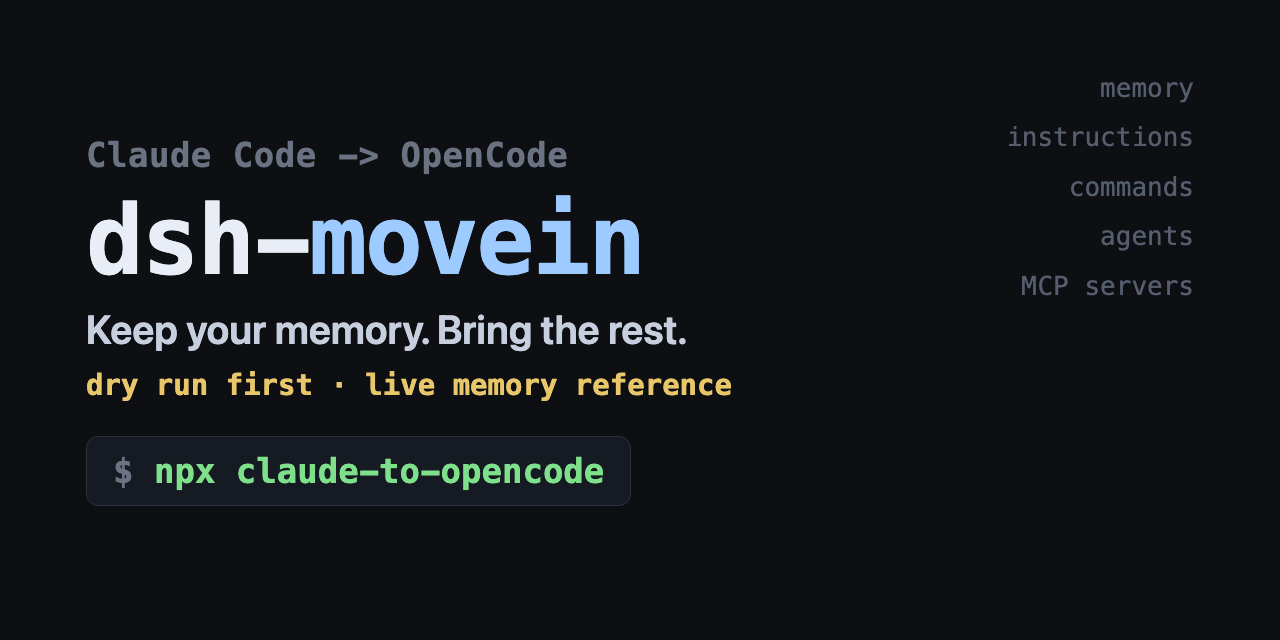
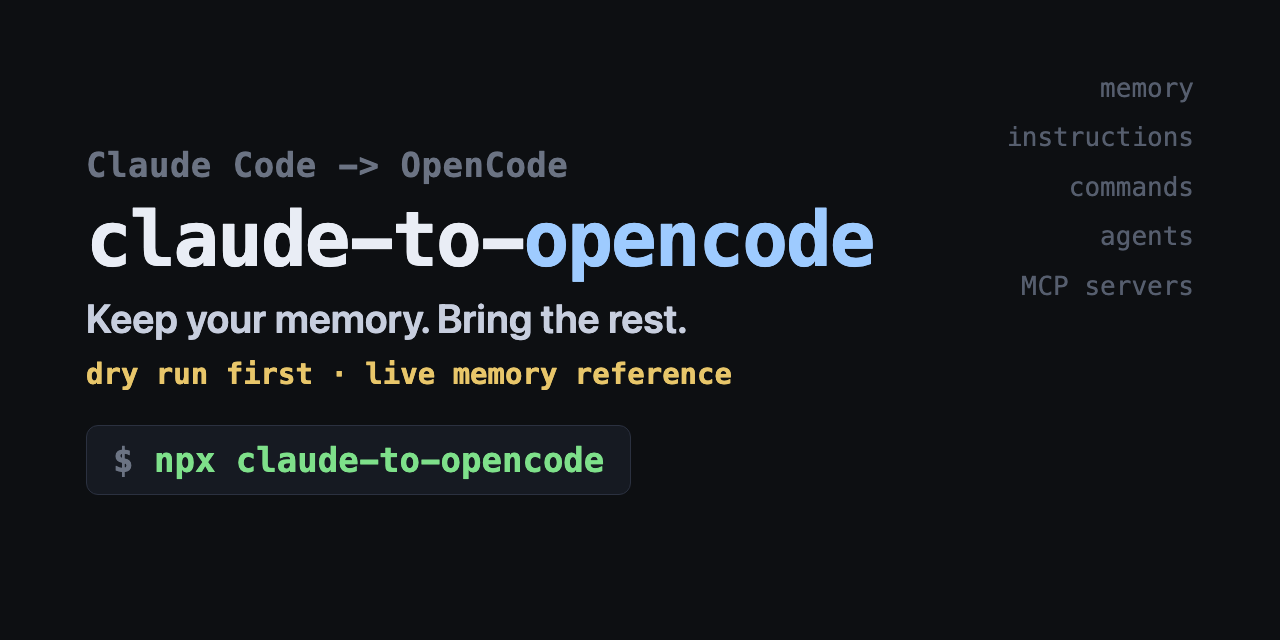
Make claude-to-opencode the market entry (#18)

diff --git a/demo/social.html b/demo/social.html
@@ -5,7 +5,7 @@
      lives inside the central 1108px safe zone (86px margins each side) */
   #safe{position:absolute;left:86px;top:0;width:1108px;height:640px;display:flex;flex-direction:column;justify-content:center}
   .from{font:600 34px ui-monospace,Menlo,monospace;color:#6b7383;letter-spacing:.5px}
-  .name{font:800 96px ui-monospace,Menlo,monospace;color:#e9edf5;margin:10px 0 6px;letter-spacing:-2px}
+  .name{font:800 76px ui-monospace,Menlo,monospace;color:#e9edf5;margin:10px 0 8px;letter-spacing:-2px}
   .name .accent{color:#9ecbff}
   .claim{font:600 40px ui-sans-serif,system-ui;color:#c7cede;line-height:1.3;max-width:760px}
   .proof{font:600 29px ui-monospace,Menlo,monospace;color:#e8c66a;margin-top:13px}
@@ -16,7 +16,7 @@
 <body>
 <div id="safe">
   <div class="from">Claude Code -> OpenCode</div>
-  <div class="name">dsh-<span class="accent">movein</span></div>
+  <div class="name">claude-to-<span class="accent">opencode</span></div>
   <div class="claim">Keep your memory. Bring the rest.</div>
   <div class="proof">dry run first · live memory reference</div>
   <div><span class="cmd"><span class="dim">$</span> npx claude-to-opencode</span></div>

diff --git a/README.md b/README.md
@@ -1,34 +1,34 @@
-# dsh-movein
+# claude-to-opencode
 
 [中文](./README.zh.md)
 
 <p align="center">
-  <a href="https://www.npmjs.com/package/dsh-movein"><img alt="npm" src="https://img.shields.io/npm/v/dsh-movein?style=flat-square&color=4b6fff"></a>
-  <a href="https://github.com/sjh9714/dsh-movein/actions/workflows/ci.yml"><img alt="CI" src="https://github.com/sjh9714/dsh-movein/actions/workflows/ci.yml/badge.svg"></a>
+  <a href="https://www.npmjs.com/package/claude-to-opencode"><img alt="npm" src="https://img.shields.io/npm/v/claude-to-opencode?style=flat-square&color=4b6fff"></a>
+  <a href="https://github.com/sjh9714/claude-to-opencode/actions/workflows/ci.yml"><img alt="CI" src="https://github.com/sjh9714/claude-to-opencode/actions/workflows/ci.yml/badge.svg"></a>
   <a href="LICENSE"><img alt="MIT" src="https://img.shields.io/badge/license-MIT-2EA44F?style=flat-square"></a>
-  <a href="https://www.npmjs.com/package/dsh-movein"><img alt="downloads" src="https://img.shields.io/npm/dm/dsh-movein?style=flat-square&color=8250df"></a>
+  <a href="https://www.npmjs.com/package/claude-to-opencode"><img alt="downloads" src="https://img.shields.io/npm/dm/claude-to-opencode?style=flat-square&color=8250df"></a>
 </p>
 
 Leave Claude Code without rebuilding your setup.
 
 One command previews and moves auto memory, instructions, unconditional rules, commands, agents, and MCP servers into OpenCode. The same CLI can move Claude Code, Codex, or OpenCode assets into [DeepSeek Harness (DSH)](https://github.com/deepseek-ai/deepseek-harness).
 
-![Claude Code setup moving safely into OpenCode](https://raw.githubusercontent.com/sjh9714/dsh-movein/main/docs/demo.gif)
+![Claude Code setup moving safely into OpenCode](https://raw.githubusercontent.com/sjh9714/claude-to-opencode/main/docs/demo.gif)
 
 The animation recreates the real CLI flow. The generated files were also loaded with OpenCode `1.18.21` through `debug config`, `debug skill`, and `debug agent`.
 
 ## Claude Code to OpenCode
 
 ```sh
-npx dsh-movein --from claude --to opencode
-npx dsh-movein --from claude --to opencode --apply
-```
-
-The shorter search-friendly entry point runs the same code.
-
-```sh
 npx claude-to-opencode
 npx claude-to-opencode --apply
+```
+
+The full multi-origin CLI runs the same route.
+
+```sh
+npx dsh-movein --from claude --to opencode
+npx dsh-movein --from claude --to opencode --apply
 ```
 
 The first command is only a preview.
@@ -170,7 +170,7 @@ Listed in [awesome-dsh-plugin](https://github.com/awesome-dsh-plugin/awesome-dsh
 
 ## Star history
 
-[![Star History Chart](https://api.star-history.com/svg?repos=sjh9714/dsh-movein&type=Date)](https://star-history.com/#sjh9714/dsh-movein&Date)
+[![Star History Chart](https://api.star-history.com/svg?repos=sjh9714/claude-to-opencode&type=Date)](https://star-history.com/#sjh9714/claude-to-opencode&Date)
 
 ## License
 

diff --git a/README.zh.md b/README.zh.md
@@ -1,10 +1,10 @@
-# dsh-movein
+# claude-to-opencode
 
 [English](./README.md)
 
 <p align="center">
-  <a href="https://www.npmjs.com/package/dsh-movein"><img alt="npm" src="https://img.shields.io/npm/v/dsh-movein?style=flat-square&color=4b6fff"></a>
-  <a href="https://github.com/sjh9714/dsh-movein/actions/workflows/ci.yml"><img alt="CI" src="https://github.com/sjh9714/dsh-movein/actions/workflows/ci.yml/badge.svg"></a>
+  <a href="https://www.npmjs.com/package/claude-to-opencode"><img alt="npm" src="https://img.shields.io/npm/v/claude-to-opencode?style=flat-square&color=4b6fff"></a>
+  <a href="https://github.com/sjh9714/claude-to-opencode/actions/workflows/ci.yml"><img alt="CI" src="https://github.com/sjh9714/claude-to-opencode/actions/workflows/ci.yml/badge.svg"></a>
   <a href="LICENSE"><img alt="MIT" src="https://img.shields.io/badge/license-MIT-2EA44F?style=flat-square"></a>
 </p>
 
@@ -12,22 +12,22 @@
 
 一条命令先预演，再把自动记忆、指令、无路径条件的 rules、命令、agents 和 MCP 搬进 OpenCode。同一个 CLI 也能把 Claude Code、Codex 或 OpenCode 资产搬进 [DeepSeek Harness (DSH)](https://github.com/deepseek-ai/deepseek-harness)。
 
-![Claude Code 配置安全搬进 OpenCode](https://raw.githubusercontent.com/sjh9714/dsh-movein/main/docs/demo.gif)
+![Claude Code 配置安全搬进 OpenCode](https://raw.githubusercontent.com/sjh9714/claude-to-opencode/main/docs/demo.gif)
 
 动画复现真实 CLI 流程。生成结果还通过 OpenCode `1.18.21` 的 `debug config`、`debug skill` 和 `debug agent` 实际加载验证。
 
 ## Claude Code 搬到 OpenCode
 
 ```sh
-npx dsh-movein --from claude --to opencode
-npx dsh-movein --from claude --to opencode --apply
-```
-
-也可以使用更短、便于搜索的同一入口。
-
-```sh
 npx claude-to-opencode
 npx claude-to-opencode --apply
+```
+
+完整的多来源 CLI 运行同一条迁移路径。
+
+```sh
+npx dsh-movein --from claude --to opencode
+npx dsh-movein --from claude --to opencode --apply
 ```
 
 第一条命令只预演，不写文件。

diff --git a/plugin/README.md b/plugin/README.md
@@ -43,7 +43,7 @@ Claude Code permission rule shape, `Tool` or `Tool(specifier)`.
 
 Mapped tools. `Bash` (terminal_open/terminal_send and friends), `Read`, `Write`, `Edit`, and every `mcp__*` tool. `*` patterns match as a superset, over-denying is the safe direction for a gate.
 
-Deny wins over ask. Rules that reference tools with no DSH equivalent never match anything, harmless but pointless, the [dsh-movein](https://github.com/sjh9714/dsh-movein) migration report lists them for you.
+Deny wins over ask. Rules that reference tools with no DSH equivalent never match anything, harmless but pointless, the [dsh-movein](https://github.com/sjh9714/claude-to-opencode) migration report lists them for you.
 
 ## Coming from Claude Code?
 

diff --git a/packages/claude-to-opencode/README.md b/packages/claude-to-opencode/README.md
@@ -13,4 +13,4 @@ It handles the current project's auto memory, global and project instructions, u
 
 Path-scoped Claude rules, hooks, permissions, and sessions stay manual because OpenCode does not give them the same semantics.
 
-This is the search-friendly entry point for [dsh-movein](https://github.com/sjh9714/dsh-movein), which owns the implementation and safety tests.
+The [repository](https://github.com/sjh9714/claude-to-opencode) also contains the full `dsh-movein` implementation and its safety tests.

diff --git a/.github/ISSUE_TEMPLATE/bug_report.md b/.github/ISSUE_TEMPLATE/bug_report.md
@@ -13,5 +13,5 @@ labels: bug
 
 **Versions**
 - dsh version (`npx @deepseek-ai/dsh --version`):
-- dsh-movein version:
+- claude-to-opencode or dsh-movein version:
 - OS:
